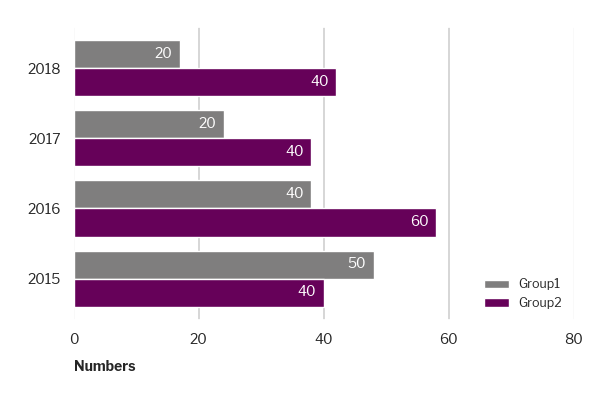
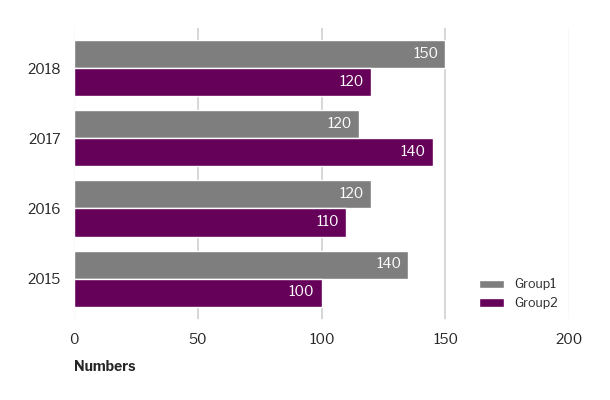
#8 check bar plot using a different data frame

diff --git a/sphinx/source/examples/grouped_bar/plot_stacked_chart.py b/sphinx/source/examples/grouped_bar/plot_stacked_chart.py
@@ -40,8 +40,8 @@ import matplotlib.font_manager as font_manager
 np.random.seed(42)
 data = {
     'Year': [2015, 2016, 2017, 2018],
-    'Group1': np.random.randint(10, 50, 4),
-    'Group2': np.random.randint(20, 60, 4)
+    'Group1': [135, 120, 115, 150],
+    'Group2': [100, 110, 145, 120]
 }
 df = pd.DataFrame(data)
 ##df = df.set_index('Category')
